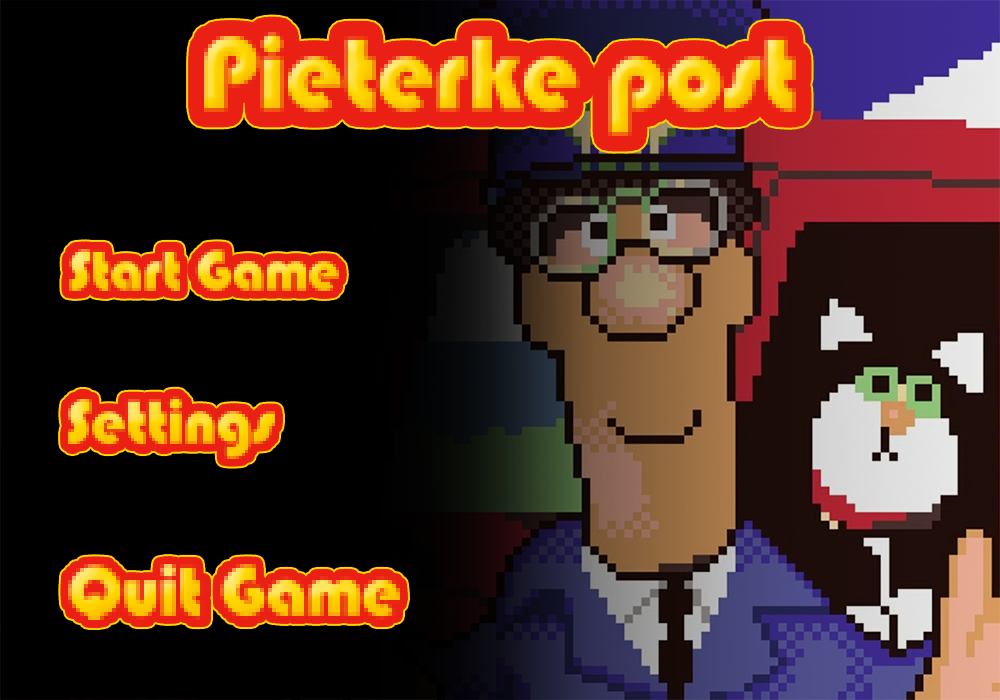
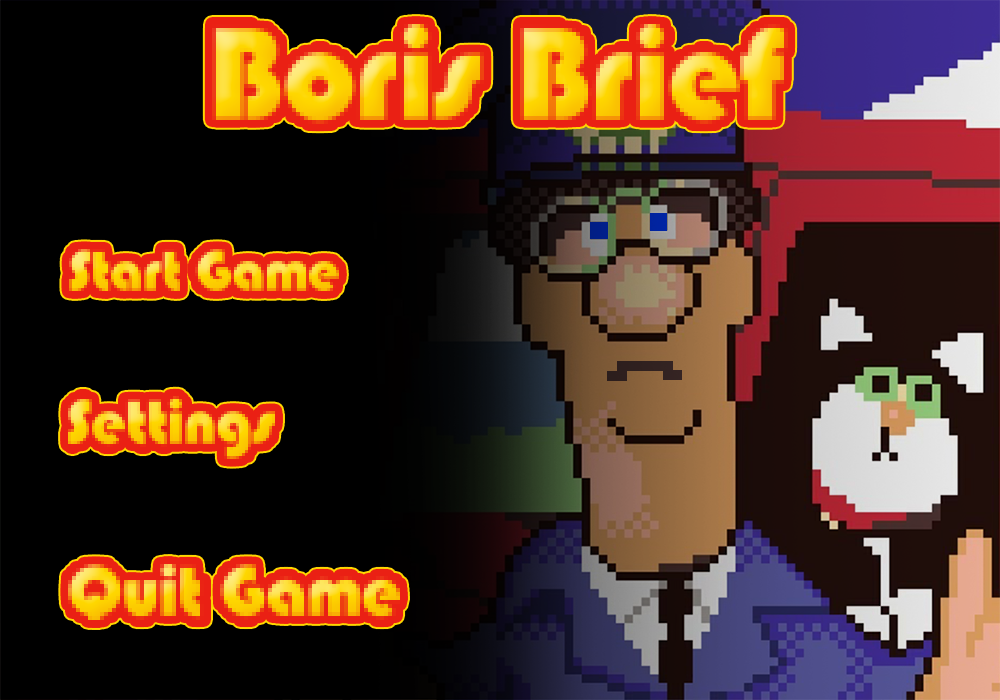
Pauze menu toegevoegd, main menu veranderd.

diff --git a/IB2.py b/IB2.py
@@ -28,15 +28,24 @@ POSITIE_START_GAME = [365, 253]
 POSITIE_SETTINGS = [300, 401]
 POSITIE_QUIT_GAME = [420, 572]
 POSITIE_SETTINGS_BACK = [170, 55]
+POSITIE_PAUZE = [
+    [540, 175],  # 0: Continue
+    [520, 310],  # 1: Settings
+    [595, 450],  # 2: Main Menu
+    [590, 585]  # 3: Quit Game
+]
 #
 # Globale variabelen
 #
-game_state = 2  # 0: main menu, 1: settings menu, 2: game actief, 3: garage,
+game_state = 0  # 0: main menu, 1: settings menu, 2: game actief, 3: garage,
 sound = True
+paused = False
 main_menu_index = 0
 settings_menu_index = 0
 main_menu_positie = [0, 0]
 settings_menu_positie = [0, 0]
+pauze_index = 0
+pauze_positie = POSITIE_PAUZE[0]
 # verwerking van config file: ook globale variabelen
 config.read("config.ini")
 volume = int(config.get("settings", "volume"))
@@ -105,26 +114,26 @@ geluiden = [
 #
 
 def verwerk_input(delta,events=0):
-    global moet_afsluiten, index, world_map, game_state, main_menu_index, settings_menu_index, volume, sensitivity, sensitivity_rw
+    global moet_afsluiten, index, world_map, game_state, main_menu_index, settings_menu_index, volume, sensitivity, sensitivity_rw, paused, pauze_index
 
     # Handelt alle input events af die zich voorgedaan hebben sinds de vorige
     # keer dat we de sdl2.ext.get_events() functie hebben opgeroepen
     if events == 0:
         events = sdl2.ext.get_events()
     key_states = sdl2.SDL_GetKeyboardState(None)
-    if (key_states[sdl2.SDL_SCANCODE_UP] or key_states[sdl2.SDL_SCANCODE_E]) and game_state == 2:
+    if (key_states[sdl2.SDL_SCANCODE_UP] or key_states[sdl2.SDL_SCANCODE_E]) and game_state == 2 and not paused:
         speler.move(1, 0.1, world_map)
         inf_world.map_making(speler)
         world_map = inf_world.world_map
         muziek_spelen("footsteps", False, 4)
-    if (key_states[sdl2.SDL_SCANCODE_DOWN] or key_states[sdl2.SDL_SCANCODE_D]) and game_state == 2:
+    if (key_states[sdl2.SDL_SCANCODE_DOWN] or key_states[sdl2.SDL_SCANCODE_D]) and game_state == 2 and not paused:
         speler.move(-1, 0.1, world_map)
         inf_world.map_making(speler)
         world_map = inf_world.world_map
         muziek_spelen("footsteps", False, 4)
-    if (key_states[sdl2.SDL_SCANCODE_RIGHT] or key_states[sdl2.SDL_SCANCODE_F]) and game_state == 2:
+    if (key_states[sdl2.SDL_SCANCODE_RIGHT] or key_states[sdl2.SDL_SCANCODE_F]) and game_state == 2 and not paused:
         speler.draaien(-math.pi / sensitivity)
-    if (key_states[sdl2.SDL_SCANCODE_LEFT] or key_states[sdl2.SDL_SCANCODE_S]) and game_state == 2:
+    if (key_states[sdl2.SDL_SCANCODE_LEFT] or key_states[sdl2.SDL_SCANCODE_S]) and game_state == 2 and not paused:
         speler.draaien(math.pi / sensitivity)
 
     for event in events:
@@ -164,9 +173,10 @@ def verwerk_input(delta,events=0):
                 if key == sdl2.SDLK_SPACE or key == sdl2.SDLK_KP_ENTER or key == sdl2.SDLK_RETURN:
                     if main_menu_index == 0:
                         game_state = 2
+                        return
                     if main_menu_index == 1:
                         game_state = 1
-                        pass
+                        return
                     if main_menu_index == 2:
                         moet_afsluiten = True
                         break
@@ -183,10 +193,9 @@ def verwerk_input(delta,events=0):
                     if settings_menu_index == 1:
                         pass
                     if settings_menu_index == 2:
-                        game_state = 0
+                        game_state = 0 if not paused else 2
                         settings_menu_index = 0
-                if key == sdl2.SDLK_m:
-                    game_state = 0
+                        return
                 if key == sdl2.SDLK_LEFT:
                     if settings_menu_index == 0:
                         volume -= 1
@@ -207,11 +216,31 @@ def verwerk_input(delta,events=0):
                     sensitivity_rw = 0
                 if sensitivity_rw > 100:
                     sensitivity_rw = 100
-            if not moet_afsluiten and game_state == 2:
                 if key == sdl2.SDLK_m:
+                    game_state = 0 if not paused else 2
+            if not moet_afsluiten and game_state == 2:
+                if key == sdl2.SDLK_m and not paused:
                     game_state = 0
+                if key == sdl2.SDLK_p:
+                    paused = True if not paused else False
                 if key == sdl2.SDLK_UP or key == sdl2.SDLK_DOWN or key == sdl2.SDLK_e or key == sdl2.SDLK_d:
                     pass
+                if paused:
+                    if key == sdl2.SDLK_UP or key == sdl2.SDLK_e:
+                        pauze_index -= 1
+                        muziek_spelen("main menu select", False, 2)
+                    if key == sdl2.SDLK_DOWN or key == sdl2.SDLK_d:
+                        pauze_index += 1
+                        muziek_spelen("main menu select", False, 2)
+                    if pauze_index == 0 and key == sdl2.SDLK_SPACE:
+                        paused = False
+                    if pauze_index == 1 and key == sdl2.SDLK_SPACE:
+                        game_state = 1
+                    if pauze_index == 2 and key == sdl2.SDLK_SPACE:
+                        game_state = 0
+                        paused = False
+                    if pauze_index == 3 and key == sdl2.SDLK_SPACE:
+                        moet_afsluiten = True
         elif event.type == sdl2.SDL_KEYUP:
             key = event.key.keysym.sym
             if key == sdl2.SDLK_f or key == sdl2.SDLK_s:
@@ -236,7 +265,7 @@ def verwerk_input(delta,events=0):
         # Wordt afgeleverd als de gebruiker de muis heeft bewogen.
         # Aangezien we relative motion gebruiken zijn alle coordinaten
         # relatief tegenover de laatst gerapporteerde positie van de muis.
-        elif event.type == sdl2.SDL_MOUSEMOTION and game_state == 2:
+        elif event.type == sdl2.SDL_MOUSEMOTION and game_state == 2 and not paused:
             # Aangezien we in onze game maar 1 as hebben waarover de camera
             # kan roteren zijn we enkel geinteresseerd in bewegingen over de
             # X-as
@@ -359,7 +388,7 @@ def muziek_spelen(geluid, looped=False, channel=1):
 
 
 def menu_nav():
-    global game_state, main_menu_index, settings_menu_index, main_menu_positie, settings_menu_positie
+    global game_state, main_menu_index, settings_menu_index, main_menu_positie, settings_menu_positie, pauze_index, pauze_positie
     if game_state == 0:
         if main_menu_index == 0:
             main_menu_positie = POSITIE_START_GAME
@@ -377,16 +406,21 @@ def menu_nav():
     elif game_state == 1:
         if settings_menu_index == 0:
             settings_menu_positie = [150, 200]
-            return
         elif settings_menu_index == 1:
             settings_menu_positie = [200, 230]
-            return
-        elif settings_menu_index:
+        elif settings_menu_index == 2:
             settings_menu_positie = POSITIE_SETTINGS_BACK
         if settings_menu_index > 2:
             settings_menu_index = 0
         if settings_menu_index < 0:
             settings_menu_index = 2
+    elif paused:
+        if pauze_index > 3:
+            pauze_index = 0
+        if pauze_index < 0:
+            pauze_index = 3
+        pauze_positie = POSITIE_PAUZE[pauze_index]
+
 
 
 def pathfinding_gps(eindpositie=(8, 8)):
@@ -548,6 +582,7 @@ def main():
     achtergrond = factory.from_image(resources.get_path("game_main_menu_wh_tekst.png"))
     menu_pointer = factory.from_image(resources.get_path("game_main_menu_pointer.png"))
     settings_menu = factory.from_image(resources.get_path("settings_menu.png"))
+    pauze_menu = factory.from_image(resources.get_path("pause_menu.png"))
 
     #UI
     uifactory = sdl2.ext.UIFactory(factory)
@@ -649,16 +684,27 @@ def main():
             # t.append(time.time()-t1)
             if abs(pad[-1][0] - speler.p_x) > 3 or abs(pad[-1][1] - speler.p_y) > 3:
                 pad = pathfinding_gps((50 * 9, 50 * 9))
+                print(len(pad))
             draw_nav(renderer, inf_world, speler, pad, sprites)
             #draw_path(renderer, pad)
             delta = time.time() - start_time
             if speler.in_auto:
                 wheelSprite(renderer, wheel)
+            if paused:
+                renderer.copy(pauze_menu,
+                              srcrect=(0, 0, pauze_menu.size[0], pauze_menu.size[1]),
+                              dstrect=(0, 0, BREEDTE, HOOGTE))
+                renderer.copy(menu_pointer,
+                              srcrect=(0, 0, menu_pointer.size[0], menu_pointer.size[1]),
+                              dstrect=(pauze_positie[0], pauze_positie[1], 80, 50))
+                menu_nav()
+            else:
+                next(fps_generator)
 
             verwerk_input(delta)
 
             # Toon de fps
-            next(fps_generator)
+            #next(fps_generator)
 
             # Verwissel de rendering context met de frame buffer
             renderer.present()

diff --git a/Classes.py b/Classes.py
@@ -279,7 +279,7 @@ class Auto():
         self.hp -= 1
 
 
-class Node():  # A* algoritme
+class Node:  # A* algoritme
     def __init__(self, parent=None, positie=None):
         self.parent = parent
         self.positie = positie
